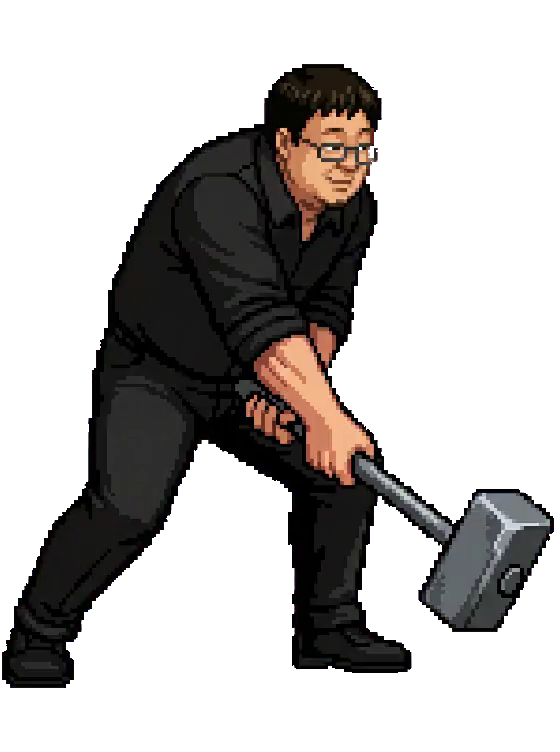
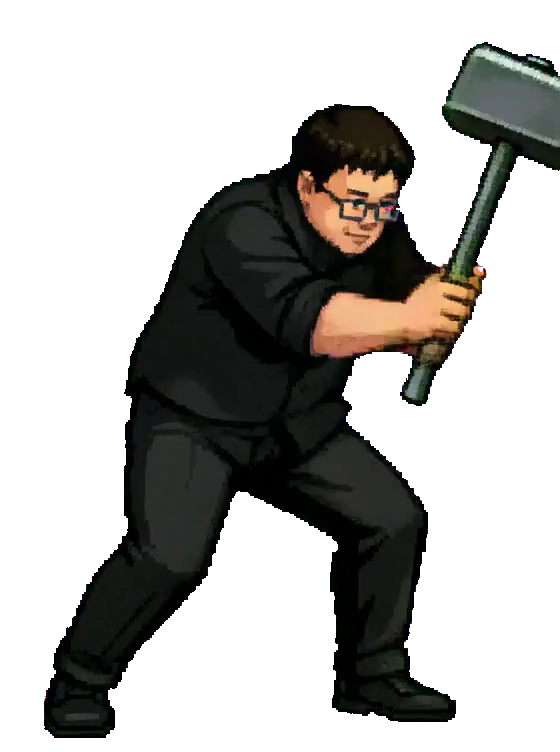
优化ai和胜利结算字体

diff --git a/src/objects/AiController.ts b/src/objects/AiController.ts
@@ -1,13 +1,16 @@
+import { FIGHTER_STATE } from '../config/combat.ts';
+
 // Difficulty profile. Tuned to feel like a real fighting-game opponent: it keeps
 // spacing, walks in, strikes when you're in range, baits, and hops back out of
 // the way of your attacks — but with a human-like reaction delay so it is beatable.
 const NORMAL = {
-  reactionMs: 420, // how often the AI re-evaluates the situation (higher = slower reflexes)
-  attackCooldownMs: 900, // minimum gap between attack attempts (anti-spam)
-  aggression: 0.4, // chance to swing when the opponent is in range
-  defense: 0.4, // chance to guard or evade an attack it has read
-  jumpInChance: 0.1, // chance to hop in while closing distance
-  spacingChance: 0.35, // chance to step back in range to bait a whiff
+  reactionMs: 320, // how often the AI re-evaluates the situation (higher = slower reflexes)
+  attackCooldownMs: 750, // minimum gap between attack attempts (anti-spam)
+  aggression: 0.5, // chance to swing when the opponent is in range
+  defense: 0.55, // chance to guard or evade an attack it has read
+  jumpInChance: 0.12, // chance to hop in while closing distance
+  spacingChance: 0.3, // chance to step back in range to bait a whiff
+  attack2Chance: 0.3, // chance to mix in the secondary attack instead of the primary
 };
 
 // Drives a Player the way a second human would: instead of reading the keyboard,
@@ -19,6 +22,7 @@ export default class AiController {
   input: FighterInput;
   sinceDecision: number;
   sinceAttack: number;
+  oppWasAttacking: boolean;
 
   constructor(player: Fighter, profile: AiProfile = NORMAL) {
     this.player = player;
@@ -30,6 +34,7 @@ export default class AiController {
     };
     this.sinceDecision = profile.reactionMs; // decide on the very first frame
     this.sinceAttack = profile.attackCooldownMs;
+    this.oppWasAttacking = false;
   }
 
   opponent(): Fighter {
@@ -96,24 +101,44 @@ export default class AiController {
     const attackRange = Math.max(1, me.getSkillRange('attack') * 0.9);
     const r = Math.random;
 
+    // Remember whether the opponent was mid-swing last time we looked, so a
+    // swing that just ended (their recovery) can be told apart from one that
+    // never started — that's what makes the whiff punish below possible.
+    const oppAttackingNow = opp.skillRunner.isActive;
+    const oppJustWhiffed = this.oppWasAttacking && !oppAttackingNow;
+    this.oppWasAttacking = oppAttackingNow;
+
     // Read the opponent's swing: if they're attacking and we're inside their
     // range, usually crouch-back to guard; occasionally hop/step back instead.
-    if (opp.skillRunner.isActive && gap < attackRange + 40 && r() < this.cfg.defense) {
+    if (oppAttackingNow && gap < attackRange + 40 && r() < this.cfg.defense) {
       this.setMove(false, oppOnRight);
       if (r() < 0.65) this.input.down = true;
       else if (r() < 0.4) this.input.up = true; // jump back
       return;
     }
 
+    // Punish: the opponent's attack just ended and we're already in range —
+    // swing immediately instead of rolling the usual cooldown/aggression check.
+    if (oppJustWhiffed && gap <= attackRange) {
+      this.throwAttack(me);
+      return;
+    }
+
+    // Anti-air: the opponent is jumping in and about to land in range while we
+    // stay grounded — meet them with a hit instead of just walking forward.
+    if (
+      opp.combatState === FIGHTER_STATE.AIRBORNE
+      && me.combatState !== FIGHTER_STATE.AIRBORNE
+      && gap <= attackRange + 80
+      && this.sinceAttack >= this.cfg.attackCooldownMs * 0.5
+    ) {
+      this.throwAttack(me);
+      return;
+    }
+
     if (gap <= attackRange) {
       if (this.sinceAttack >= this.cfg.attackCooldownMs && r() < this.cfg.aggression) {
-        const superSkill = me.skillRunner.getSkillByInput('special');
-        if (superSkill && me.canUseSkill(superSkill) && me.isRageFull()) {
-          this.input.special = true;
-        } else {
-          this.input.attack = true;
-        }
-        this.sinceAttack = 0;
+        this.throwAttack(me);
       } else if (r() < this.cfg.spacingChance) {
         this.setMove(false, oppOnRight); // back off to reset spacing / bait
       }
@@ -131,6 +156,23 @@ export default class AiController {
     this.setMove(true, oppOnRight);
     if (r() < this.cfg.jumpInChance * 0.5) this.input.up = true;
   }
+
+  // Picks which button to press for an in-range swing: a fully charged rage
+  // super takes priority, otherwise mix the primary and secondary attack so
+  // the AI doesn't throw the exact same move every time.
+  throwAttack(me: Fighter): void {
+    const r = Math.random;
+    const superSkill = me.skillRunner.getSkillByInput('special');
+    const attack2Skill = me.skillRunner.getSkillByInput('attack2');
+    if (superSkill && me.canUseSkill(superSkill) && me.isRageFull()) {
+      this.input.special = true;
+    } else if (attack2Skill && me.canUseSkill(attack2Skill) && r() < this.cfg.attack2Chance) {
+      this.input.attack2 = true;
+    } else {
+      this.input.attack = true;
+    }
+    this.sinceAttack = 0;
+  }
 }
 import type Fighter from '../combat/Fighter.ts';
 
@@ -141,6 +183,7 @@ interface AiProfile {
   defense: number;
   jumpInChance: number;
   spacingChance: number;
+  attack2Chance: number;
 }
 
 export interface FighterInput {

diff --git a/src/scenes/FightScene.ts b/src/scenes/FightScene.ts
@@ -4,6 +4,7 @@ import { getCharacter, DEFAULT_CHARACTER } from '../objects/roster.ts';
 import { getStage } from '../data/stages.ts';
 import { getWinnerQuote } from '../data/winnerQuotes.ts';
 import { PIXEL_FONT, PIXEL_FONT_CN } from '../fonts.ts';
+import { setVerticalGradient } from '../utils/text.ts';
 import { playUi, stopMenuBgm } from '../audio.ts';
 import { SCENE_KEYS } from '../config/game.ts';
 import CollisionWorld from '../combat/CollisionWorld.ts';
@@ -577,21 +578,21 @@ export default class FightScene extends Phaser.Scene {
         .text(width * 0.58, 130, 'WINNER', {
           fontFamily: PIXEL_FONT,
           fontSize: '70px',
-          color: '#ffffff',
           stroke: '#7d0016',
           strokeThickness: 10,
         })
         .setAlpha(0);
+      setVerticalGradient(winnerLabel, ['#fff7c0', '#ffd23f', '#b8741a']);
       const name = this.add
         .text(width * 0.58, 250, characterName, {
           fontFamily: PIXEL_FONT_CN,
           fontSize: '34px',
           fontStyle: 'bold',
-          color: '#ffcc33',
           stroke: '#000000',
           strokeThickness: 6,
         })
         .setAlpha(0);
+      setVerticalGradient(name, ['#fff4d6', '#ffcc33', '#a86a00']);
       const rule = this.add.rectangle(width * 0.58, 312, width * 0.34, 6, 0xffcc33)
         .setOrigin(0, 0.5)
         .setAlpha(0);
@@ -600,13 +601,14 @@ export default class FightScene extends Phaser.Scene {
           fontFamily: PIXEL_FONT_CN,
           fontSize: '42px',
           fontStyle: 'bold',
-          color: '#ffffff',
-          stroke: '#000000',
-          strokeThickness: 7,
+          stroke: '#3a0d00',
+          strokeThickness: 8,
           lineSpacing: 16,
           wordWrap: { width: width * 0.37, useAdvancedWrap: true },
         })
+        .setScale(1.35)
         .setAlpha(0);
+      setVerticalGradient(quoteLabel, ['#fff7c0', '#ffcc33', '#ff5a1f']);
       result.add([eyebrow, winnerLabel, name, rule, quoteLabel]);
 
       this.tweens.add({
@@ -619,12 +621,25 @@ export default class FightScene extends Phaser.Scene {
         ease: 'Back.easeOut',
       });
       this.tweens.add({
-        targets: [eyebrow, winnerLabel, name, rule, quoteLabel],
+        targets: [eyebrow, winnerLabel, name, rule],
         x: '+=28',
         alpha: 1,
         duration: 300,
         delay: this.tweens.stagger(75, { start: 120 }),
         ease: 'Quad.easeOut',
+      });
+      // The quote gets its own punchier reveal (scale pop + afterglow) since
+      // it's the line the player actually reads and remembers.
+      this.tweens.add({
+        targets: quoteLabel,
+        x: '+=28',
+        scaleX: 1,
+        scaleY: 1,
+        alpha: 1,
+        duration: 380,
+        delay: 420,
+        ease: 'Back.easeOut',
+        onComplete: () => this.pulseQuoteGlow(quoteLabel),
       });
       this.game.canvas.setAttribute('aria-label', `胜者界面：${characterName}，${quote}`);
     } else {
@@ -652,6 +667,21 @@ export default class FightScene extends Phaser.Scene {
 
     this.tweens.add({ targets: result, alpha: 1, duration: 240, ease: 'Quad.easeOut' });
     this.time.delayedCall(520, () => this.armResultExit(result));
+  }
+
+  // Warm breathing glow behind the winner's quote. Only WebGL supports the FX
+  // pipeline the glow relies on, so canvas fallback just skips it.
+  pulseQuoteGlow(quoteLabel) {
+    if (this.game.renderer.type !== Phaser.WEBGL) return;
+    const glow = quoteLabel.postFX.addGlow(0xff9a2e, 0, 0, false, 0.15, 12);
+    this.tweens.add({
+      targets: glow,
+      outerStrength: 2.4,
+      duration: 700,
+      yoyo: true,
+      repeat: -1,
+      ease: 'Sine.easeInOut',
+    });
   }
 
   armResultExit(result) {

diff --git a/src/combat/Fighter.ts b/src/combat/Fighter.ts
@@ -29,12 +29,12 @@ const { KeyCodes } = Phaser.Input.Keyboard;
 
 const KEY_LAYOUTS = [
   {
-    up: KeyCodes.W, down: KeyCodes.S, left: KeyCodes.A, right: KeyCodes.D, attack: KeyCodes.G,
-    attack2: KeyCodes.H, special: KeyCodes.J,
+    up: KeyCodes.W, down: KeyCodes.S, left: KeyCodes.A, right: KeyCodes.D, attack: KeyCodes.J,
+    attack2: KeyCodes.K, special: KeyCodes.L,
   },
   {
-    up: KeyCodes.UP, down: KeyCodes.DOWN, left: KeyCodes.LEFT, right: KeyCodes.RIGHT, attack: KeyCodes.COMMA,
-    attack2: KeyCodes.PERIOD, special: KeyCodes.FORWARD_SLASH,
+    up: KeyCodes.UP, down: KeyCodes.DOWN, left: KeyCodes.LEFT, right: KeyCodes.RIGHT, attack: KeyCodes.ONE,
+    attack2: KeyCodes.TWO, special: KeyCodes.THREE,
   },
 ];
 

diff --git a/src/scenes/SelectScene.ts b/src/scenes/SelectScene.ts
@@ -99,9 +99,9 @@ export default class SelectScene extends Phaser.Scene {
 
     this.cursorGfx = this.add.graphics().setDepth(15);
 
-    // Small "1P"/"2P"/"CPU" tab that rides above each cursor.
+    // Small "1P"/"2P"/"AI" tab that rides above each cursor.
     this.cursorTags = this.p.map((player, id) => this.add
-      .text(0, 0, player.isCpu ? 'CPU' : `${id + 1}P`, {
+      .text(0, 0, player.isCpu ? 'AI' : `${id + 1}P`, {
         fontFamily: PIXEL_FONT,
         fontSize: '20px',
         fontStyle: 'bold',

diff --git a/src/scenes/TitleScene.ts b/src/scenes/TitleScene.ts
@@ -80,7 +80,7 @@ export default class TitleScene extends Phaser.Scene {
     });
 
     this.add
-      .text(width / 2, height - 40, '1P: WASD + G H J    2P: ARROWS + < > ?    GUARD: DOWN + BACK', {
+      .text(width / 2, height - 40, '1P: WASD + J K L    2P: ARROWS + 1 2 3    GUARD: DOWN + BACK', {
         fontFamily: PIXEL_FONT,
         fontSize: '12px',
         color: '#aabbcc',

diff --git a/README.md b/README.md
@@ -33,9 +33,9 @@ Vite 会启动本地开发服务器并在浏览器中打开游戏。
 | 操作 | 玩家 1 | 玩家 2 |
 | --- | --- | --- |
 | 移动 / 跳跃 | `W` `A` `S` `D` | 方向键 |
-| 攻击 1 | `G` | `,` |
-| 攻击 2 | `H` | `.` |
-| 必杀技 | `J` | `/` |
+| 攻击 1 | `J` | `1` |
+| 攻击 2 | `K` | `2` |
+| 必杀技 | `L` | `3` |
 | 防御 | 下 + 远离对手方向 | 下 + 远离对手方向 |
 
 必杀技需要怒气蓄满后才能释放。